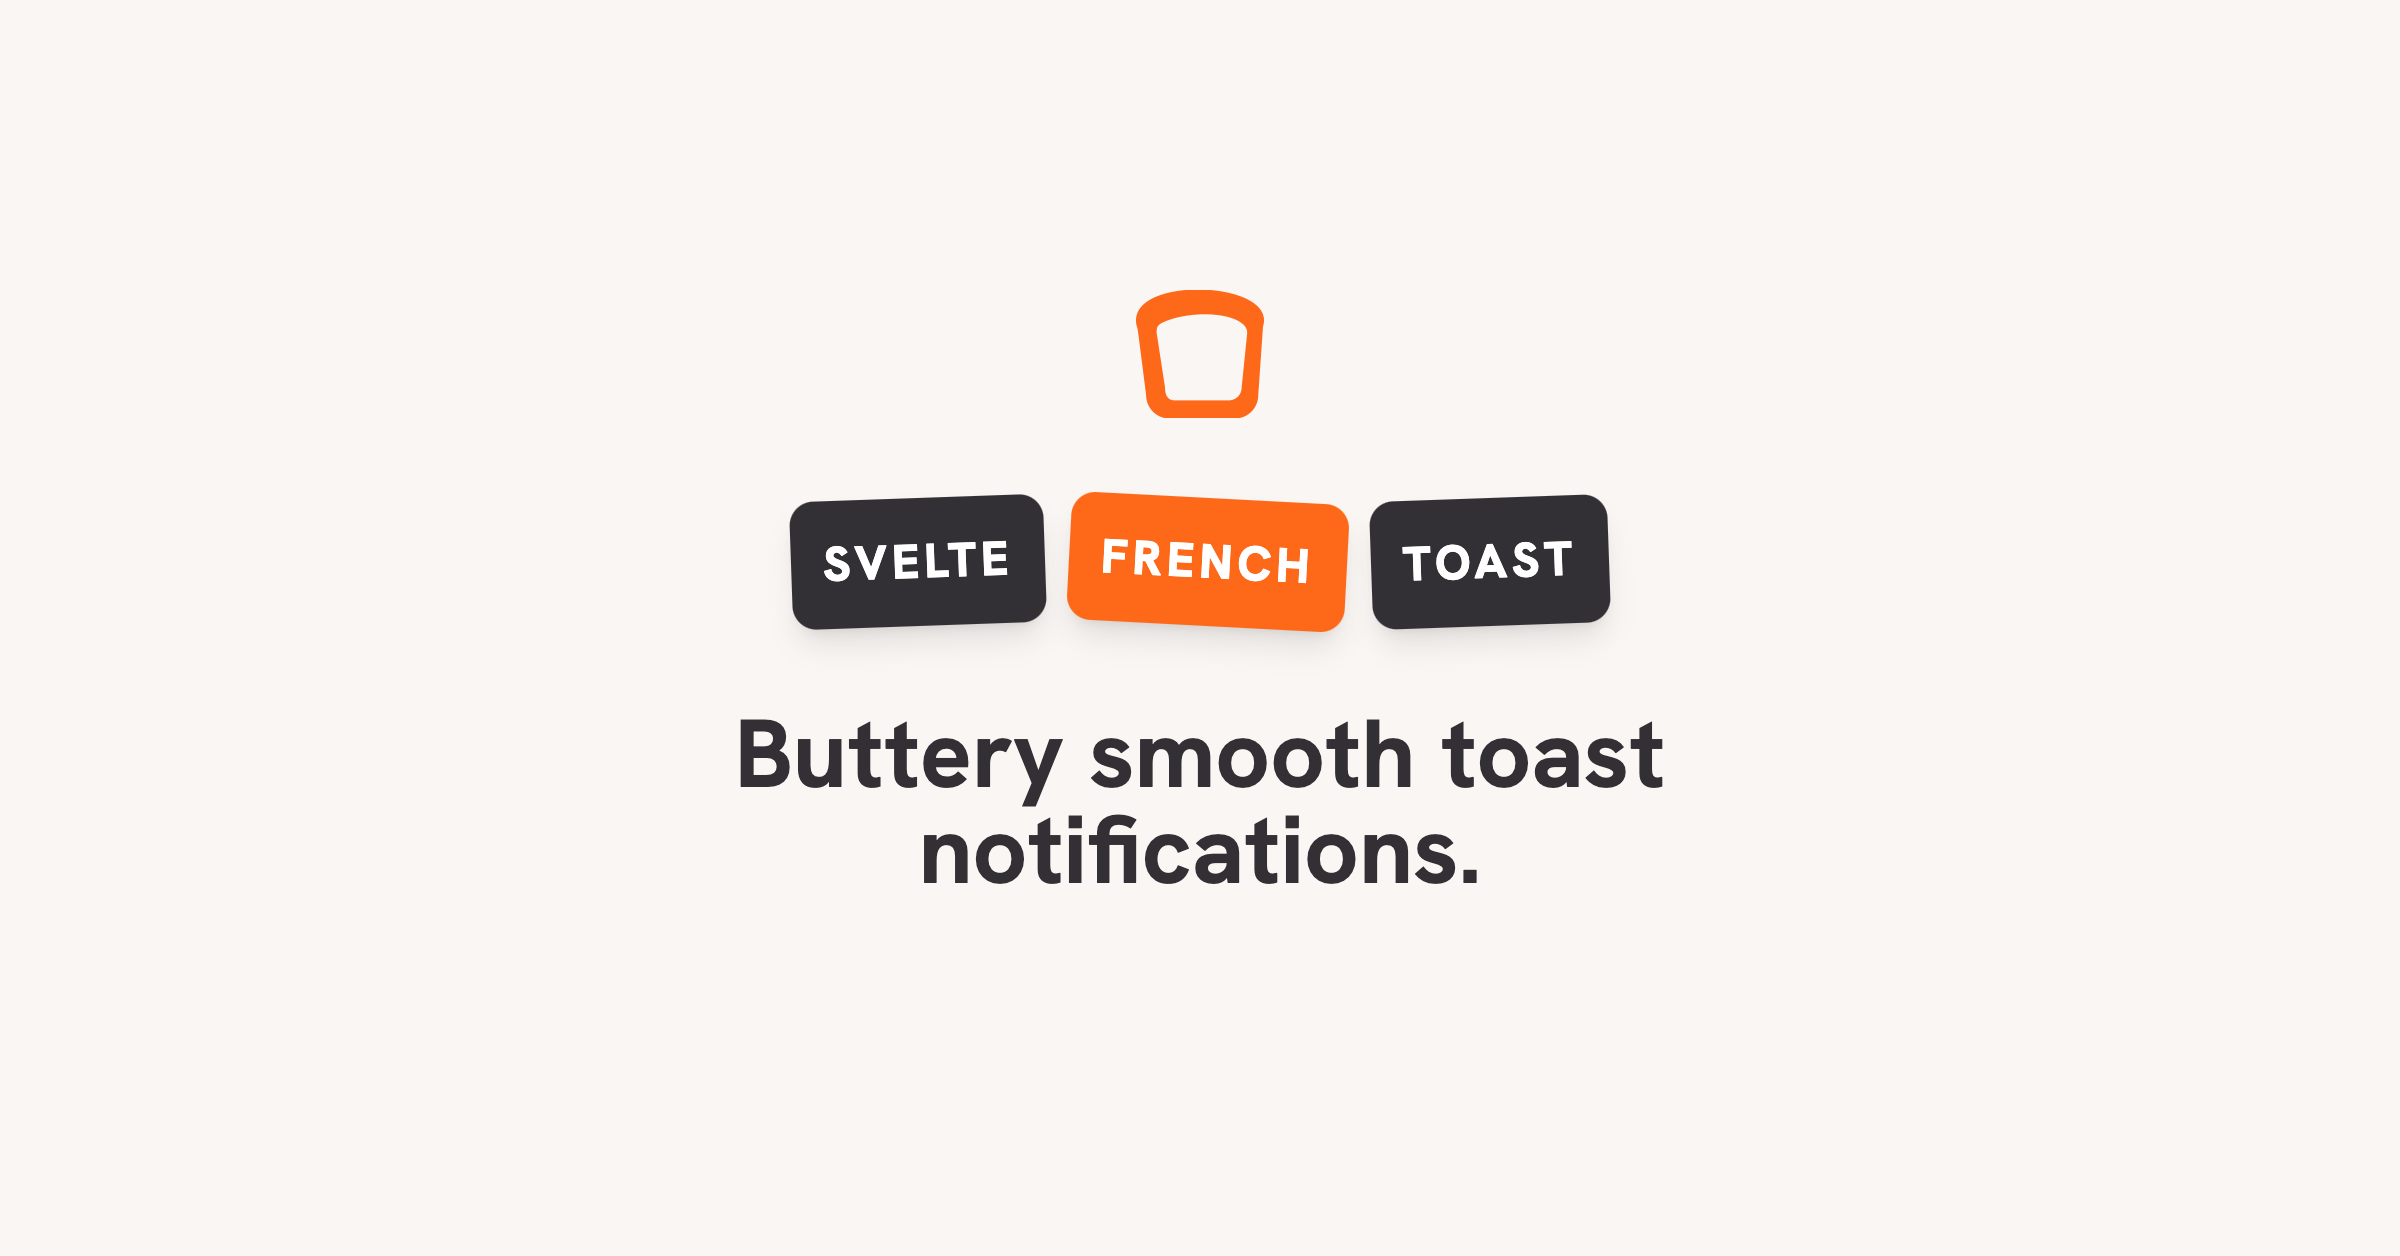
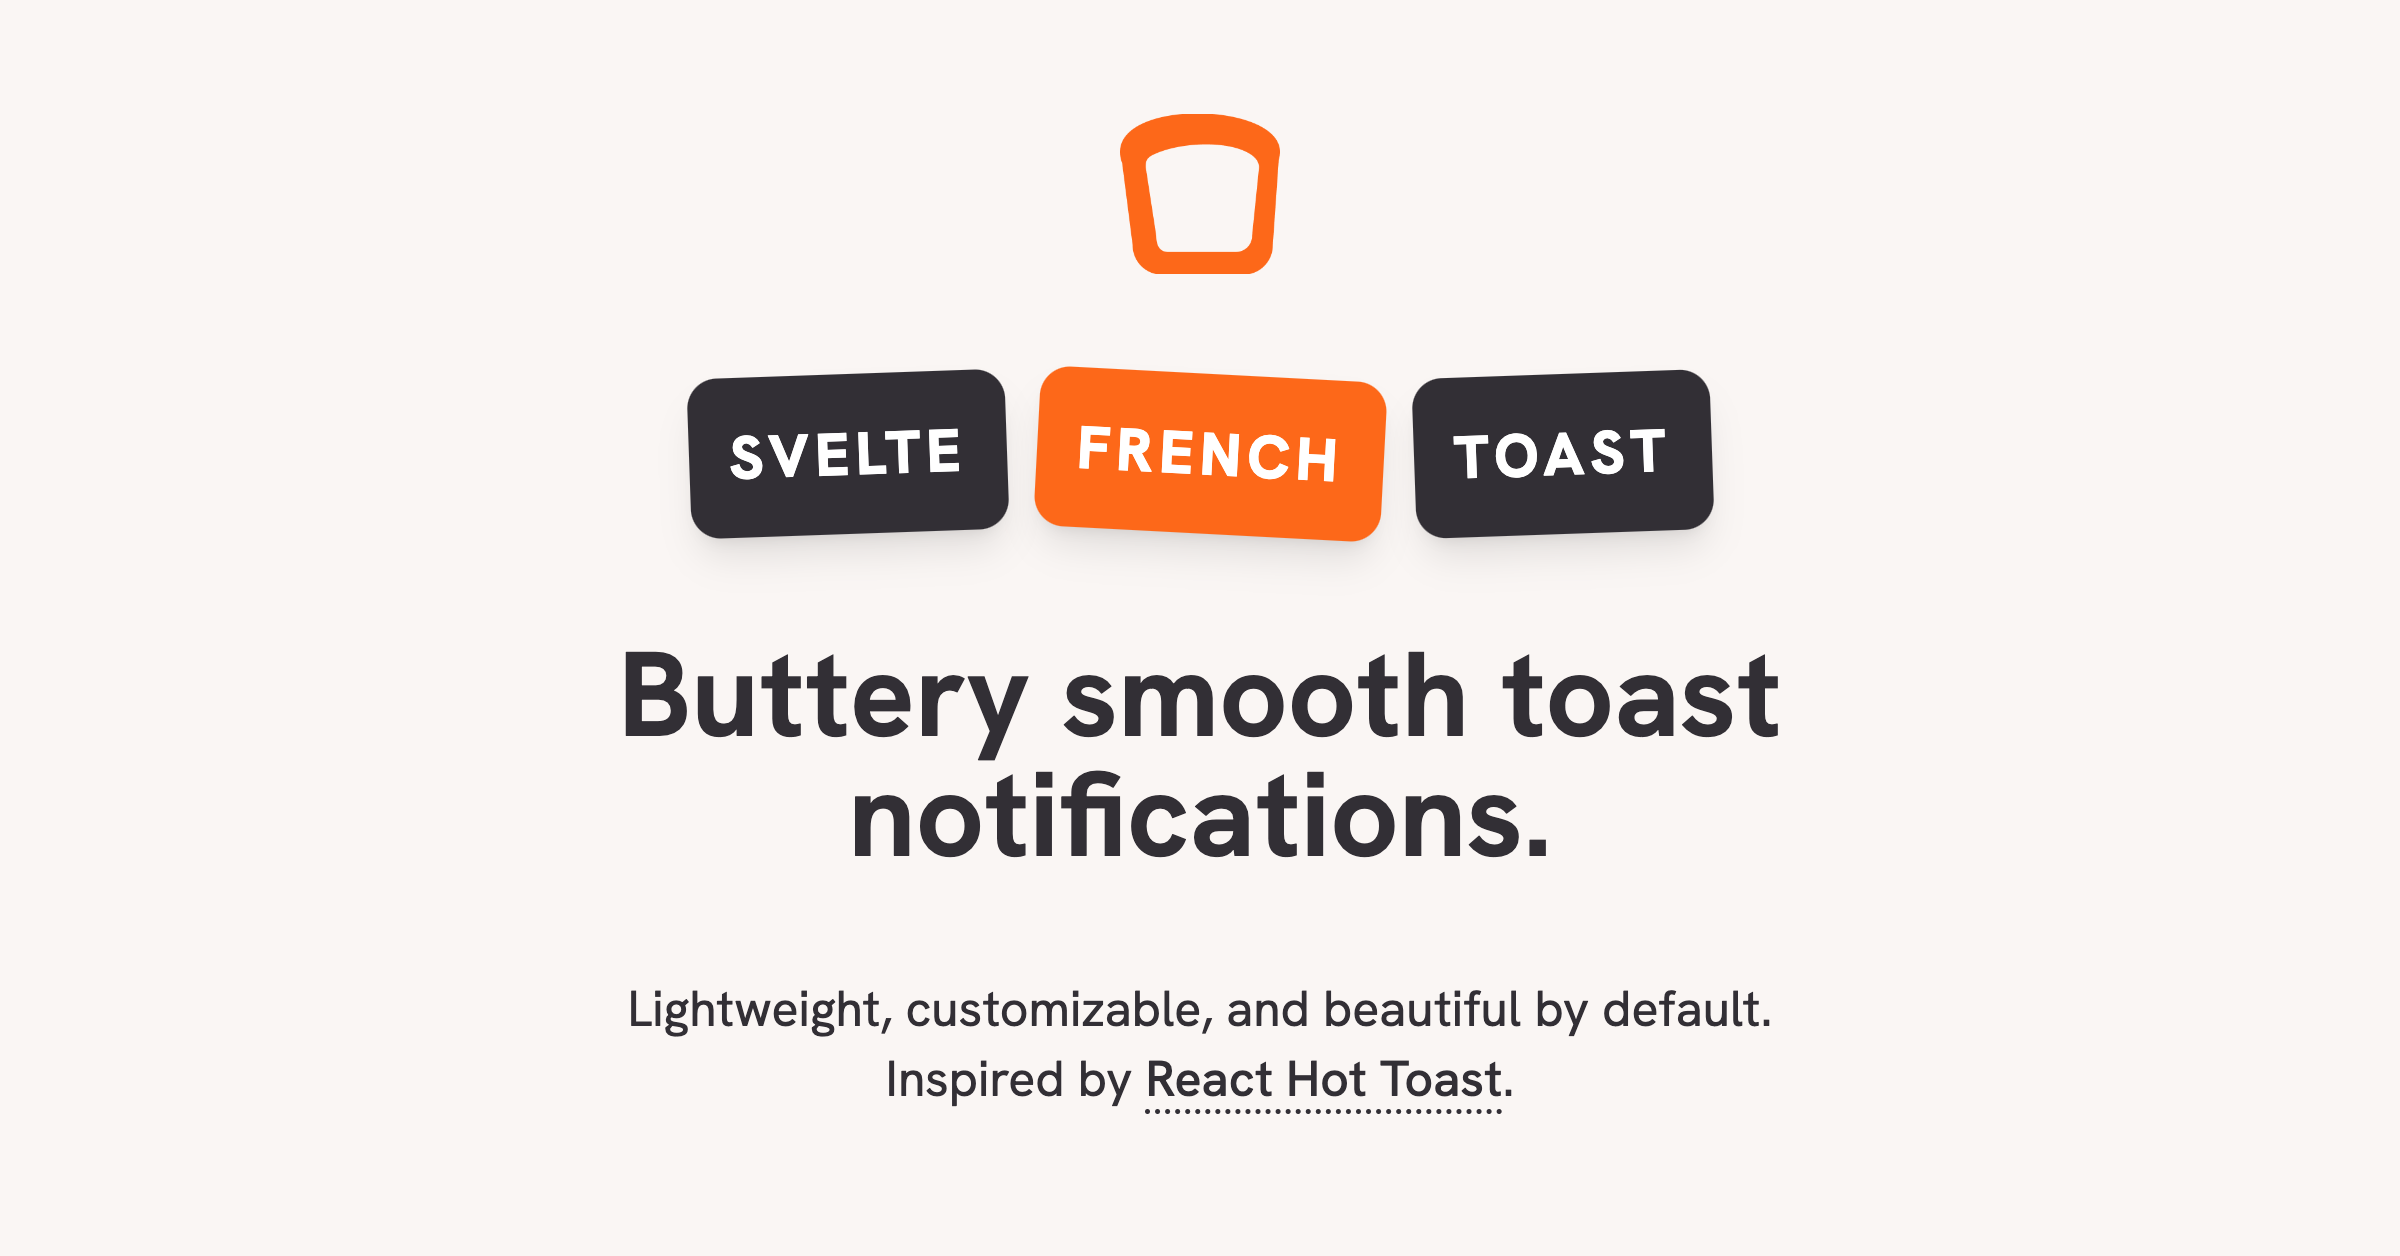
www: Update OG image and add more meta tags

Changed region(s): [[0.25, 0.0932, 0.75, 0.7142], [0.25, 0.7763, 0.75, 0.9005]]

diff --git a/www/src/routes/__layout.svelte b/www/src/routes/__layout.svelte
@@ -4,13 +4,30 @@
 
 <svelte:head>
 	<title>Svelte French Toast</title>
-	<meta property="og:title" content="Svelte French Toast" />
-	<meta property="og:type" content="website" />
-	<meta property="og:url" content="https://svelte-french-toast.com" />
-	<meta property="og:image" content="https://svelte-french-toast.com/og-image.png" />
+	<meta name="title" content="Svelte French Toast" />
 	<meta
-		property="og:image:alt"
-		content="A silhouette of toast with Svelte French Toast written beneath it"
+		name="description"
+		content="Buttery smooth toast notifications for Svelte. Lightweight, customizable, and beautiful by default."
 	/>
+
+	<!-- Open Graph / Facebook -->
+	<meta property="og:type" content="website" />
+	<meta property="og:url" content="https://svelte-french-toast.com/" />
+	<meta property="og:title" content="Svelte French Toast" />
+	<meta
+		property="og:description"
+		content="Buttery smooth toast notifications for Svelte. Lightweight, customizable, and beautiful by default."
+	/>
+	<meta property="og:image" content="https://svelte-french-toast.com/og-image.png" />
+
+	<!-- Twitter -->
+	<meta property="twitter:card" content="summary_large_image" />
+	<meta property="twitter:url" content="https://svelte-french-toast.com/" />
+	<meta property="twitter:title" content="Svelte French Toast" />
+	<meta
+		property="twitter:description"
+		content="Buttery smooth toast notifications for Svelte. Lightweight, customizable, and beautiful by default."
+	/>
+	<meta property="twitter:image" content="https://svelte-french-toast.com/og-image.png" />
 </svelte:head>
 <slot />
